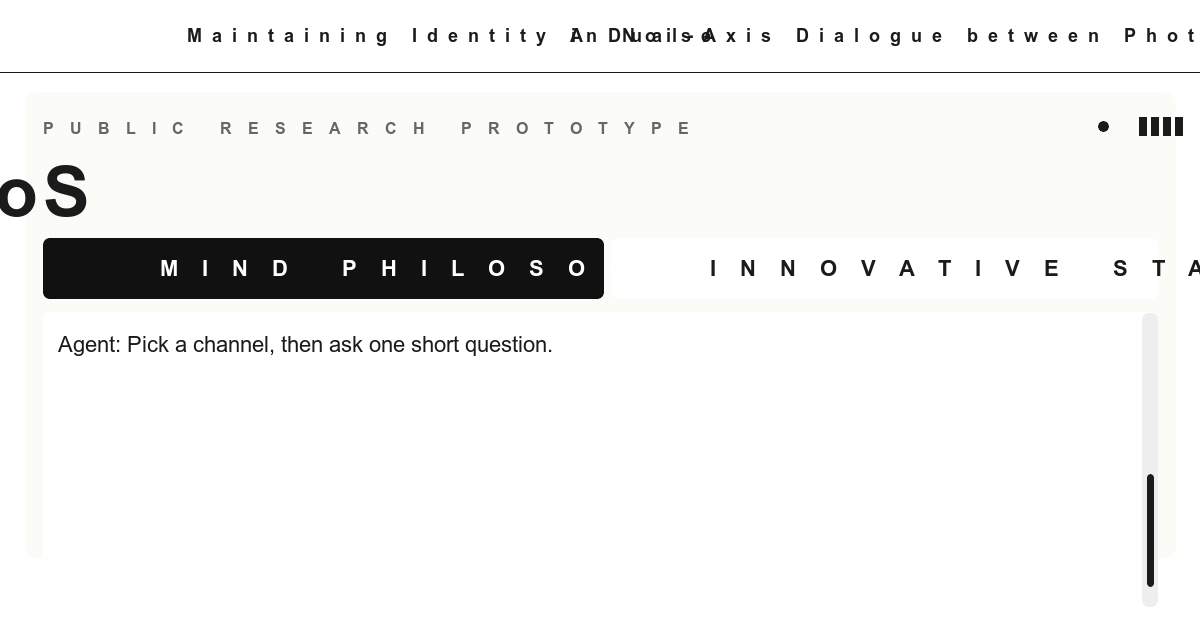
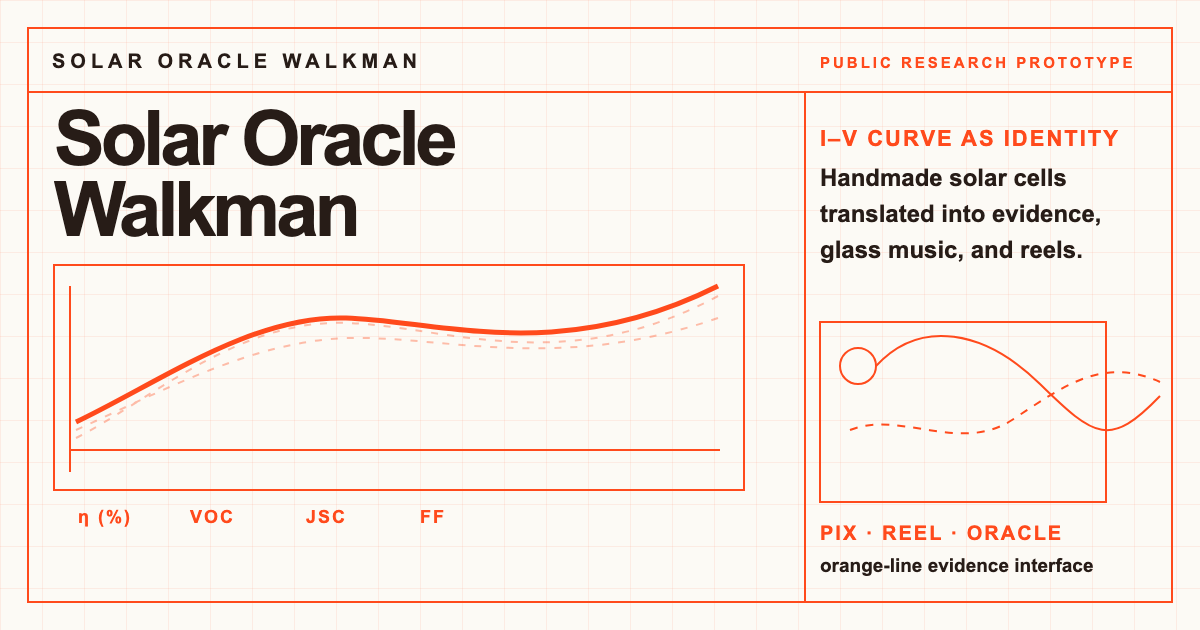
Refresh social preview image

diff --git a/site/index.html b/site/index.html
@@ -11,8 +11,8 @@
     <meta property="og:url" content="https://weiweiweiopen.github.io/solar-oracle-walkman/" />
     <meta property="og:title" content="Solar Oracle Walkman | IV Database" />
     <meta property="og:description" content="A public research prototype for photovoltaic PUF, I-V voiceprints, material-event signatures, and mind philosophy." />
-    <meta property="og:image" content="https://weiweiweiopen.github.io/solar-oracle-walkman/og-image.png" />
-    <meta property="og:image:secure_url" content="https://weiweiweiopen.github.io/solar-oracle-walkman/og-image.png" />
+    <meta property="og:image" content="https://weiweiweiopen.github.io/solar-oracle-walkman/og-image.png?v=20260701-orange" />
+    <meta property="og:image:secure_url" content="https://weiweiweiopen.github.io/solar-oracle-walkman/og-image.png?v=20260701-orange" />
     <meta property="og:image:type" content="image/png" />
     <meta property="og:image:width" content="1200" />
     <meta property="og:image:height" content="630" />
@@ -20,9 +20,9 @@
     <meta name="twitter:card" content="summary_large_image" />
     <meta name="twitter:title" content="Solar Oracle Walkman | IV Database" />
     <meta name="twitter:description" content="A public research prototype for photovoltaic PUF, I-V voiceprints, material-event signatures, and mind philosophy." />
-    <meta name="twitter:image" content="https://weiweiweiopen.github.io/solar-oracle-walkman/og-image.png" />
+    <meta name="twitter:image" content="https://weiweiweiopen.github.io/solar-oracle-walkman/og-image.png?v=20260701-orange" />
     <link rel="canonical" href="https://weiweiweiopen.github.io/solar-oracle-walkman/" />
-    <link rel="image_src" href="https://weiweiweiopen.github.io/solar-oracle-walkman/og-image.png" />
+    <link rel="image_src" href="https://weiweiweiopen.github.io/solar-oracle-walkman/og-image.png?v=20260701-orange" />
     <meta name="sow-chat-api" content="https://solar-oracle-deepseek-proxy.dontmarryme.workers.dev/chat" />
     <title>Solar Oracle Walkman | IV Database</title>
     <link rel="stylesheet" href="./style.css?v=20260701-minimal-mouse" />